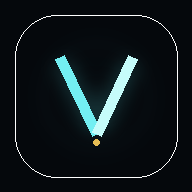
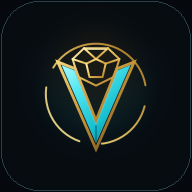
Velnox V1.8.0 brand identity

diff --git a/trust.js b/trust.js
@@ -1,7 +1,7 @@
 (() => {
   'use strict';
 
-  const VERSION = '1.7.1';
+  const VERSION = '1.8.0';
   const LEGAL_VERSION = '1.0.0';
   const EFFECTIVE_DATE = '2026-08-24';
   const STUDIO = 'Benedict Interactive';
@@ -31,7 +31,7 @@
       legalEye:'LEGAL & PRIVACY', legalTitle:'Legal Center', legalIntro:'Clear product rules for ownership, use, privacy, measurement data and third-party services.', copyright:'Copyright & Intellectual Property', copyrightSub:'Ownership, permitted personal use and reserved rights', terms:'Terms of Use', termsSub:'Rules and limitations for using Velnox', privacyPolicy:'Privacy Policy', privacySub:'Local history, test traffic, benchmark data and external services', third:'Third-Party Notices', thirdSub:'Cloudflare, GitHub Pages and other third-party rights', effective:'Effective', version:'Legal version',
       cpTitle:'Copyright & Intellectual Property', cp1:'Velnox, its original source code, interface design, original graphics, written explanations, product identity and documentation are protected works of Benedict Interactive except where third-party rights or licences apply.', cp2:'Public availability of the website or repository does not by itself grant permission to copy, redistribute, resell, mirror, commercially exploit or create a substantially copied competing product. Ordinary personal, non-commercial screenshots of your own Velnox results are permitted.', cp3:'No exclusive rights are claimed in general networking concepts, facts, standards, public-domain material or third-party software and services.',
       termsTitle:'Terms of Use', terms1:'Velnox provides browser-based network measurements, interpretations and benchmark estimates for informational use. Results are not guarantees of ISP service, application performance, contractual speed or future network behaviour.', terms2:'You may use the released application for ordinary personal or organisational network checking. Do not deliberately misrepresent measurements, impersonate Benedict Interactive, interfere with the service, bypass security controls, or unlawfully exploit protected code or assets.', terms3:'The service may change, be unavailable, or depend on third-party infrastructure. Nothing here removes rights that applicable law does not allow to be waived or limited.',
-      ppTitle:'Privacy Policy', pp1:'Velnox does not require an account. When Save History is enabled, saved test history is stored in browser LocalStorage on the current device/browser profile. Clearing history removes that local Velnox history.', pp2:'A speed test necessarily sends test traffic to Cloudflare speed-test endpoints. Velnox may use Cloudflare-provided network metadata or browser locale to estimate the network-exit country for benchmark selection. Velnox does not put a raw IP address into local test history.', pp3:'Country and Worldwide benchmark files are aggregated Cloudflare Radar datasets generated by the Velnox benchmark workflow. They are not personal histories. Ko-fi, PromptPay support assets, GitHub Pages and email applications are third-party services with their own practices.', pp4:'Velnox V1.7 contains no advertising system, cross-site behavioural advertising tracker, or system for selling user data.',
+      ppTitle:'Privacy Policy', pp1:'Velnox does not require an account. When Save History is enabled, saved test history is stored in browser LocalStorage on the current device/browser profile. Clearing history removes that local Velnox history.', pp2:'A speed test necessarily sends test traffic to Cloudflare speed-test endpoints. Velnox may use Cloudflare-provided network metadata or browser locale to estimate the network-exit country for benchmark selection. Velnox does not put a raw IP address into local test history.', pp3:'Country and Worldwide benchmark files are aggregated Cloudflare Radar datasets generated by the Velnox benchmark workflow. They are not personal histories. Ko-fi, PromptPay support assets, GitHub Pages and email applications are third-party services with their own practices.', pp4:'Velnox V1.8 contains no advertising system, cross-site behavioural advertising tracker, or system for selling user data.',
       tpTitle:'Third-Party Notices', tp1:'Cloudflare: Velnox uses Cloudflare speed-test infrastructure for primary browser measurements and Cloudflare Radar histogram data for the Velnox Standard Base. Cloudflare services, trademarks, data and software remain subject to Cloudflare’s applicable terms and licences.', tp2:'GitHub Pages: the public Velnox website is hosted through GitHub Pages. GitHub controls the hosting platform and its platform-level logs, security and availability.', tp3:'Ko-fi and PromptPay: voluntary support routes are external to the Velnox measurement engine. Payment details and account handling occur outside Velnox. Third-party names and marks belong to their respective owners.',
       aboutEye:'ABOUT', aboutTitle:'Velnox — Network Intelligence', aboutLead:'A privacy-conscious network-health assistant by Benedict Interactive.', versionLabel:'Version', studio:'Studio', primary:'Primary measurement', benchmark:'Benchmark source', hosting:'Hosting', privacyModel:'Privacy model', sourceStatus:'Source status', primaryV:'@cloudflare/speedtest 1.13.0 · accuracy-first profile', benchmarkV:'Cloudflare Radar · rolling 90-day histograms', hostingV:'GitHub Pages', privacyV:'No account · optional local history · no raw IP stored in history', sourceV:'Free to use · proprietary source unless separately licensed', aboutNote:'Measure → Interpret → Compare → Diagnose → Recommend → Retest, with uncertainty and source limitations shown instead of hidden.'
     },
@@ -54,7 +54,7 @@
       legalEye:'กฎหมายและความเป็นส่วนตัว', legalTitle:'ศูนย์ข้อมูลทางกฎหมาย', legalIntro:'ขอบเขตสิทธิ์ การใช้งาน ความเป็นส่วนตัว ข้อมูลการวัด และบริการของบุคคลที่สาม อธิบายตามการทำงานจริงของ Velnox', copyright:'ลิขสิทธิ์และทรัพย์สินทางปัญญา', copyrightSub:'กรรมสิทธิ์ การใช้ส่วนตัวที่อนุญาต และสิทธิ์ที่สงวนไว้', terms:'ข้อกำหนดการใช้งาน', termsSub:'กติกาและข้อจำกัดในการใช้ Velnox', privacyPolicy:'นโยบายความเป็นส่วนตัว', privacySub:'ประวัติในเครื่อง Test traffic, Benchmark และบริการภายนอก', third:'ข้อมูลบุคคลที่สาม', thirdSub:'Cloudflare, GitHub Pages และสิทธิ์ของผู้ให้บริการอื่น', effective:'มีผลตั้งแต่', version:'เวอร์ชันเอกสาร',
       cpTitle:'ลิขสิทธิ์และทรัพย์สินทางปัญญา', cp1:'Velnox รวมถึง source code ต้นฉบับ การออกแบบหน้าจอ กราฟิกต้นฉบับ คำอธิบาย เอกลักษณ์ผลิตภัณฑ์ และเอกสาร เป็นงานที่ได้รับความคุ้มครองของ Benedict Interactive เว้นแต่ส่วนที่มีสิทธิ์หรือใบอนุญาตของบุคคลที่สาม', cp2:'การที่เว็บไซต์หรือ repository เปิดให้มองเห็น ไม่ได้หมายถึงได้รับอนุญาตให้นำไปคัดลอก แจกจ่าย ขาย ทำ mirror ใช้เชิงพาณิชย์ หรือสร้างผลิตภัณฑ์คู่แข่งที่คัดลอกอย่างมีนัยสำคัญ อนุญาตให้เก็บหรือแชร์ screenshot ผล Velnox ของตนเองเพื่อการส่วนตัวที่ไม่ใช่เชิงพาณิชย์', cp3:'Velnox ไม่อ้างสิทธิ์แต่เพียงผู้เดียวเหนือแนวคิดเครือข่ายทั่วไป ข้อเท็จจริง มาตรฐาน งานสาธารณสมบัติ ซอฟต์แวร์ หรือบริการของบุคคลที่สาม',
       termsTitle:'ข้อกำหนดการใช้งาน', terms1:'Velnox ให้บริการการวัดเครือข่ายผ่านเบราว์เซอร์ การแปลผล และ Benchmark เพื่อให้ข้อมูล ผลลัพธ์ไม่ใช่การรับประกันบริการ ISP ประสิทธิภาพของทุกแอป ความเร็วตามสัญญา หรือพฤติกรรมเครือข่ายในอนาคต', terms2:'สามารถใช้แอปที่เผยแพร่เพื่อการตรวจสอบเครือข่ายทั่วไปได้ ห้ามบิดเบือนผล แอบอ้างเป็น Benedict Interactive รบกวนระบบ ข้ามมาตรการความปลอดภัย หรือใช้โค้ด/ทรัพย์สินที่ได้รับการคุ้มครองโดยมิชอบ', terms3:'บริการอาจเปลี่ยนแปลง หยุดให้บริการชั่วคราว หรือขึ้นกับโครงสร้างพื้นฐานของบุคคลที่สาม และไม่ตัดสิทธิ์ที่กฎหมายไม่อนุญาตให้สละหรือจำกัด',
-      ppTitle:'นโยบายความเป็นส่วนตัว', pp1:'Velnox ไม่ต้องสมัครบัญชี เมื่อเปิด Save History ผลทดสอบที่บันทึกจะอยู่ใน browser LocalStorage ของอุปกรณ์/browser profile ปัจจุบัน การล้างประวัติจะลบประวัติ Velnox ที่เก็บในเครื่องนั้น', pp2:'Speed Test จำเป็นต้องส่ง test traffic ไปยัง endpoint ของ Cloudflare Velnox อาจใช้ network metadata ที่ Cloudflare ให้หรือ browser locale เพื่อประมาณประเทศของ network exit สำหรับเลือก Benchmark และไม่บันทึก raw IP ลงในประวัติภายในเครื่อง', pp3:'ไฟล์ Benchmark ประเทศและทั่วโลกเป็นข้อมูลรวมจาก Cloudflare Radar ที่สร้างผ่าน workflow ของ Velnox ไม่ใช่ประวัติส่วนบุคคล Ko-fi, PromptPay, GitHub Pages และแอปอีเมลเป็นบริการภายนอกที่มีแนวทางของตนเอง', pp4:'Velnox V1.7 ไม่มีระบบโฆษณา ระบบ cross-site behavioural advertising tracking หรือระบบขายข้อมูลผู้ใช้',
+      ppTitle:'นโยบายความเป็นส่วนตัว', pp1:'Velnox ไม่ต้องสมัครบัญชี เมื่อเปิด Save History ผลทดสอบที่บันทึกจะอยู่ใน browser LocalStorage ของอุปกรณ์/browser profile ปัจจุบัน การล้างประวัติจะลบประวัติ Velnox ที่เก็บในเครื่องนั้น', pp2:'Speed Test จำเป็นต้องส่ง test traffic ไปยัง endpoint ของ Cloudflare Velnox อาจใช้ network metadata ที่ Cloudflare ให้หรือ browser locale เพื่อประมาณประเทศของ network exit สำหรับเลือก Benchmark และไม่บันทึก raw IP ลงในประวัติภายในเครื่อง', pp3:'ไฟล์ Benchmark ประเทศและทั่วโลกเป็นข้อมูลรวมจาก Cloudflare Radar ที่สร้างผ่าน workflow ของ Velnox ไม่ใช่ประวัติส่วนบุคคล Ko-fi, PromptPay, GitHub Pages และแอปอีเมลเป็นบริการภายนอกที่มีแนวทางของตนเอง', pp4:'Velnox V1.8 ไม่มีระบบโฆษณา ระบบ cross-site behavioural advertising tracking หรือระบบขายข้อมูลผู้ใช้',
       tpTitle:'ข้อมูลบุคคลที่สาม', tp1:'Cloudflare: Velnox ใช้โครงสร้าง Speed Test ของ Cloudflare สำหรับการวัดหลัก และใช้ข้อมูล histogram จาก Cloudflare Radar สำหรับ Velnox Standard Base บริการ เครื่องหมาย ข้อมูล และซอฟต์แวร์ของ Cloudflare อยู่ภายใต้สิทธิ์และเงื่อนไขของ Cloudflare', tp2:'GitHub Pages: เว็บไซต์สาธารณะของ Velnox โฮสต์ผ่าน GitHub Pages โดย GitHub ควบคุมแพลตฟอร์ม hosting, platform logs, security และ availability', tp3:'Ko-fi และ PromptPay: เป็นช่องทางสนับสนุนโดยสมัครใจ แยกจาก measurement engine การชำระเงินและข้อมูลบัญชีดำเนินการภายนอก Velnox ชื่อและเครื่องหมายของบุคคลที่สามเป็นของเจ้าของแต่ละราย',
       aboutEye:'เกี่ยวกับแอป', aboutTitle:'Velnox — Network Intelligence', aboutLead:'ผู้ช่วยวิเคราะห์สุขภาพเครือข่ายที่ให้ความสำคัญกับความเป็นส่วนตัว โดย Benedict Interactive', versionLabel:'เวอร์ชัน', studio:'สตูดิโอ', primary:'การวัดหลัก', benchmark:'แหล่ง Benchmark', hosting:'Hosting', privacyModel:'รูปแบบความเป็นส่วนตัว', sourceStatus:'สถานะ Source', primaryV:'@cloudflare/speedtest 1.13.0 · accuracy-first profile', benchmarkV:'Cloudflare Radar · histogram ย้อนหลัง 90 วัน', hostingV:'GitHub Pages', privacyV:'ไม่ต้องสมัครบัญชี · ประวัติในเครื่องเป็นทางเลือก · ไม่เก็บ raw IP ในประวัติ', sourceV:'ใช้งานฟรี · source เป็น proprietary เว้นแต่ระบุ license แยก', aboutNote:'Measure → Interpret → Compare → Diagnose → Recommend → Retest พร้อมแสดงความไม่แน่นอนและข้อจำกัดของแหล่งข้อมูลอย่างตรงไปตรงมา'
     }
@@ -100,7 +100,7 @@
     document.getElementById('trustAboutBtn')?.addEventListener('click',()=>open('about'));
   }
 
-  function ensureRoot(){if(S.root)return S.root;const r=document.createElement('section');r.id='trustScreen';r.className='trust-screen';r.hidden=true;r.setAttribute('role','dialog');r.setAttribute('aria-modal','true');r.innerHTML='<header class="trust-topbar"><button id="trustBack" type="button" aria-label="Back">‹</button><div><strong>VELNOX</strong><small>NETWORK INTELLIGENCE</small></div><button id="trustHome" type="button" aria-label="Home">⌂</button></header><main id="trustContent" class="trust-scroll"></main>';document.getElementById('app')?.appendChild(r);r.querySelector('#trustBack').addEventListener('click',close);r.querySelector('#trustHome').addEventListener('click',()=>close({home:true}));r.addEventListener('click',rootClick);r.addEventListener('error',e=>{if(e.target.matches?.('.trust-qr-wrap img')){e.target.hidden=true;e.target.closest('.trust-qr-wrap')?.classList.add('qr-unavailable')}},true);S.root=r;return r}
+  function ensureRoot(){if(S.root)return S.root;const r=document.createElement('section');r.id='trustScreen';r.className='trust-screen';r.hidden=true;r.setAttribute('role','dialog');r.setAttribute('aria-modal','true');r.innerHTML='<header class="trust-topbar"><button id="trustBack" type="button" aria-label="Back">‹</button><div class="trust-brand-lockup"><img class="velnox-brand-mark velnox-brand-mark--trust" src="assets/velnox-mark.svg" alt="" aria-hidden="true"><div><strong>VELNOX</strong><small>NETWORK INTELLIGENCE</small></div></div><button id="trustHome" type="button" aria-label="Home">⌂</button></header><main id="trustContent" class="trust-scroll"></main>';document.getElementById('app')?.appendChild(r);r.querySelector('#trustBack').addEventListener('click',close);r.querySelector('#trustHome').addEventListener('click',()=>close({home:true}));r.addEventListener('click',rootClick);r.addEventListener('error',e=>{if(e.target.matches?.('.trust-qr-wrap img')){e.target.hidden=true;e.target.closest('.trust-qr-wrap')?.classList.add('qr-unavailable')}},true);S.root=r;return r}
   function show(){const r=ensureRoot();S.focus=document.activeElement;document.getElementById('settingsSheet')?.classList.remove('show');document.getElementById('sheetBackdrop')?.classList.remove('show');document.body.classList.add('trust-screen-open');r.hidden=false;requestAnimationFrame(()=>r.classList.add('is-visible'))}
   function close({home=false}={}){if(!S.root||S.root.hidden)return;const r=S.root;r.classList.remove('is-visible');const done=()=>{r.hidden=true;document.body.classList.remove('trust-screen-open');if(home)document.getElementById('homeBtn')?.click();else if(S.focus instanceof HTMLElement&&document.contains(S.focus))S.focus.focus({preventScroll:true});S.focus=null};if(document.documentElement.dataset.velnoxMotion==='reduced'||matchMedia('(prefers-reduced-motion: reduce)').matches)done();else setTimeout(done,180)}
   const block=(id,title,ps)=>`<section class="trust-doc-section" id="trust-${esc(id)}"><h2>${esc(title)}</h2>${ps.map(p=>`<p>${esc(p)}</p>`).join('')}</section>`;
@@ -113,7 +113,7 @@
   function reportBody(type,msg,include){const title=type==='report'?'Velnox — Problem Report':'Velnox — Feedback';const p=[title,'','Message:',msg.trim()];if(include)p.push('','Technical details:',diagnostics());p.push('','---',`Prepared locally. Send voluntarily to ${SUPPORT_EMAIL}.`);return p.join('\n')}
   function legalHome(){return `<section class="trust-hero"><span>${esc(t('legalEye'))}</span><h1>${esc(t('legalTitle'))}</h1><p>${esc(t('legalIntro'))}</p><div class="trust-meta"><span>${esc(t('version'))} ${LEGAL_VERSION}</span><span>${esc(t('effective'))} ${EFFECTIVE_DATE}</span></div></section><div class="trust-legal-cards"><button data-legal-doc="copyright"><i>©</i><span><b>${esc(t('copyright'))}</b><small>${esc(t('copyrightSub'))}</small></span><em>›</em></button><button data-legal-doc="terms"><i>§</i><span><b>${esc(t('terms'))}</b><small>${esc(t('termsSub'))}</small></span><em>›</em></button><button data-legal-doc="privacy"><i>◇</i><span><b>${esc(t('privacyPolicy'))}</b><small>${esc(t('privacySub'))}</small></span><em>›</em></button><button data-legal-doc="third"><i>◈</i><span><b>${esc(t('third'))}</b><small>${esc(t('thirdSub'))}</small></span><em>›</em></button></div><p class="trust-center-note">${esc(t('legalFoot'))}</p>`}
   function legalDoc(id){const map={copyright:[t('cpTitle'),[t('cp1'),t('cp2'),t('cp3')]],terms:[t('termsTitle'),[t('terms1'),t('terms2'),t('terms3')]],privacy:[t('ppTitle'),[t('pp1'),t('pp2'),t('pp3'),t('pp4')]],third:[t('tpTitle'),[t('tp1'),t('tp2'),t('tp3')]]};const [title,ps]=map[id]||map.copyright;return `<section class="trust-hero"><span>${esc(t('legalEye'))}</span><h1>${esc(title)}</h1><div class="trust-meta"><span>${esc(t('version'))} ${LEGAL_VERSION}</span><span>${esc(t('effective'))} ${EFFECTIVE_DATE}</span></div></section><article class="trust-document">${ps.map(p=>`<p>${esc(p)}</p>`).join('')}</article><button class="trust-doc-back" type="button" data-legal-home>${esc(t('back'))}</button>`}
-  function about(){const rows=[[t('versionLabel'),`V${VERSION}`],[t('studio'),STUDIO],[t('primary'),t('primaryV')],[t('benchmark'),t('benchmarkV')],[t('hosting'),t('hostingV')],[t('privacyModel'),t('privacyV')],[t('sourceStatus'),t('sourceV')]];return `<section class="trust-hero"><span>${esc(t('aboutEye'))}</span><h1>${esc(t('aboutTitle'))}</h1><p>${esc(t('aboutLead'))}</p></section><div class="trust-about-grid">${rows.map(([a,b])=>`<article><small>${esc(a)}</small><strong>${esc(b)}</strong></article>`).join('')}</div><p class="trust-center-note">${esc(t('aboutNote'))}</p><p class="trust-copyright">© 2026 Benedict Interactive · ${L()==='th'?'สงวนสิทธิ์ตามกฎหมาย':'All rights reserved.'}</p>`}
+  function about(){const rows=[[t('versionLabel'),`V${VERSION}`],[t('studio'),STUDIO],[t('primary'),t('primaryV')],[t('benchmark'),t('benchmarkV')],[t('hosting'),t('hostingV')],[t('privacyModel'),t('privacyV')],[t('sourceStatus'),t('sourceV')]];return `<section class="trust-hero trust-about-hero"><img class="velnox-brand-mark velnox-brand-mark--trust-about" src="assets/velnox-mark.svg" alt="" aria-hidden="true"><span>${esc(t('aboutEye'))}</span><h1>${esc(t('aboutTitle'))}</h1><p>${esc(t('aboutLead'))}</p></section><div class="trust-about-grid">${rows.map(([a,b])=>`<article><small>${esc(a)}</small><strong>${esc(b)}</strong></article>`).join('')}</div><p class="trust-center-note">${esc(t('aboutNote'))}</p><p class="trust-copyright">© 2026 Benedict Interactive · ${L()==='th'?'สงวนสิทธิ์ตามกฎหมาย':'All rights reserved.'}</p>`}
   function render(view,a=''){S.view=view;const c=ensureRoot().querySelector('#trustContent');c.innerHTML=view==='transparency'?transparency(a):view==='support'?support(a):view==='help'?help(a):view==='legal'?legalHome():view.startsWith('legal:')?legalDoc(view.split(':')[1]):about();c.scrollTop=0;if(a)requestAnimationFrame(()=>c.querySelector(`#trust-${a}`)?.scrollIntoView({block:'start'}))}
   function open(view='about',a=''){show();render(view,a);setTimeout(()=>S.root?.querySelector('#trustBack')?.focus({preventScroll:true}),20)}
   function external(url){document.getElementById('trustExternalConfirm')?.remove();const b=document.createElement('div');b.id='trustExternalConfirm';b.className='trust-modal-backdrop';b.innerHTML=`<div class="trust-modal"><span>↗</span><h2>${esc(t('externalTitle'))}</h2><p>${esc(t('externalBody'))}</p><div><button data-ext-cancel>${esc(t('cancel'))}</button><button class="primary" data-ext-go>${esc(t('cont'))}</button></div></div>`;document.body.appendChild(b);b.querySelector('[data-ext-cancel]').onclick=()=>b.remove();b.querySelector('[data-ext-go]').onclick=()=>{b.remove();const w=window.open(url,'_blank','noopener,noreferrer');if(!w)location.href=url}}

diff --git a/premium.css b/premium.css
@@ -303,3 +303,47 @@ html[data-velnox-motion="reduced"] .benchmark-rank-hero[data-premium="1"] .bench
     opacity:.62!important;
   }
 }
+
+
+/* Velnox V1.8.0 — Brand Identity
+   Geometric V + abstract turtle-shell DNA. Brand presentation only. */
+.velnox-brand-mark{display:block;object-fit:contain;pointer-events:none;user-select:none;-webkit-user-drag:none}
+.velnox-brand-mark--topbar{width:27px;height:27px;flex:0 0 27px;filter:drop-shadow(0 0 9px rgba(77,225,234,.10)) drop-shadow(0 0 8px rgba(216,183,98,.055))}
+.brand-button{gap:9px!important;letter-spacing:.255em!important}
+.brand-button>span:last-child{position:relative;top:.5px}
+
+.velnox-brand-mark--splash{width:118px;height:118px;margin:0 auto 7px;opacity:0;animation:markIn .65s .08s cubic-bezier(.2,.9,.2,1) forwards;filter:drop-shadow(0 10px 28px rgba(0,0,0,.36)) drop-shadow(0 0 20px rgba(55,212,223,.10))}
+.splash-logo{margin-top:0!important;letter-spacing:.31em!important;padding-left:.31em;font-weight:590!important}
+.splash-network-intelligence{margin:7px 0 0;color:#d7b45c;font-size:8px;font-weight:720;letter-spacing:.34em;text-indent:.34em;text-transform:uppercase;opacity:0;animation:studioIn .5s .82s forwards}
+.signal-line{margin-top:12px!important}
+
+.settings-brand-lockup,.about-brand-lockup,.trust-brand-lockup{display:flex;align-items:center;min-width:0}
+.settings-brand-lockup{gap:10px}
+.velnox-brand-mark--settings{width:31px;height:31px;flex:0 0 31px;filter:drop-shadow(0 0 9px rgba(83,218,226,.08))}
+.settings-brand-lockup h3{letter-spacing:.20em!important;font-weight:650!important}
+.about-brand-lockup{gap:8px;margin-bottom:1px}
+.velnox-brand-mark--about{width:29px;height:29px;flex:0 0 29px}
+.about-brand-lockup b{letter-spacing:.22em!important;font-weight:690!important}
+
+.trust-topbar>.trust-brand-lockup{display:flex!important;flex-direction:row!important;align-items:center!important;justify-content:center!important;gap:8px!important;text-align:left!important}
+.velnox-brand-mark--trust{width:27px;height:27px;flex:0 0 27px}
+.trust-brand-lockup>div{display:flex;flex-direction:column;min-width:0;gap:1px}
+.trust-topbar .trust-brand-lockup strong{letter-spacing:.22em!important}
+.trust-topbar .trust-brand-lockup small{letter-spacing:.13em!important}
+.trust-about-hero{text-align:center}
+.velnox-brand-mark--trust-about{width:74px;height:74px;margin:0 auto 12px;filter:drop-shadow(0 10px 24px rgba(0,0,0,.28))}
+.trust-about-hero>span{display:block}
+
+/* The mark is premium through restraint: no perpetual logo spin or pulse. */
+.velnox-brand-mark{transition:filter .22s ease,transform .22s var(--px-ease)}
+@media(hover:hover){.brand-button:hover .velnox-brand-mark--topbar{filter:drop-shadow(0 0 11px rgba(91,227,235,.18)) drop-shadow(0 0 8px rgba(216,183,98,.08))}}
+.brand-button:active .velnox-brand-mark--topbar{transform:scale(.965)}
+
+@media(max-width:370px){
+  .velnox-brand-mark--topbar{width:24px;height:24px;flex-basis:24px}
+  .brand-button{gap:7px!important;font-size:13px!important;letter-spacing:.22em!important}
+  .velnox-brand-mark--splash{width:104px;height:104px}
+}
+@media(max-width:350px){.brand-button>span:last-child{display:none}.brand-button{padding-right:0!important}}
+html[data-velnox-motion="reduced"] .velnox-brand-mark{transition:none!important}
+@media(prefers-reduced-motion:reduce){.velnox-brand-mark{transition:none!important}}

diff --git a/index.html b/index.html
@@ -10,8 +10,9 @@
   <meta name="apple-mobile-web-app-title" content="Velnox">
   <title>Velnox — Network Intelligence</title>
   <link rel="manifest" href="manifest.webmanifest">
-  <link rel="icon" href="assets/icon-192.png">
-  <link rel="apple-touch-icon" href="assets/icon-192.png">
+  <link rel="icon" href="assets/velnox-mark.svg" type="image/svg+xml">
+  <link rel="icon" href="assets/favicon-32.png" sizes="32x32" type="image/png">
+  <link rel="apple-touch-icon" href="assets/apple-touch-icon-180.png" sizes="180x180">
   <link rel="stylesheet" href="styles.css">
   <link rel="stylesheet" href="trust.css">
   <link rel="stylesheet" href="premium.css">
@@ -22,10 +23,9 @@
     <section id="splash" class="splash" aria-label="Velnox">
       <div class="splash-grid"></div>
       <div class="splash-core">
-        <div class="boot-mark" aria-hidden="true">
-          <span class="boot-v left"></span><span class="boot-v right"></span>
-        </div>
+        <img class="velnox-brand-mark velnox-brand-mark--splash" src="assets/velnox-mark.svg" alt="" aria-hidden="true">
         <h1 class="splash-logo">VELNOX</h1>
+        <p class="splash-network-intelligence">NETWORK INTELLIGENCE</p>
         <div class="signal-line"><span></span></div>
         <p class="studio">A BENEDICT INTERACTIVE PRODUCT</p>
       </div>
@@ -35,7 +35,7 @@
     <main id="mainShell" class="main-shell hidden">
       <header class="topbar">
         <button class="brand-button" id="homeBtn" aria-label="Home">
-          <span class="mini-v" aria-hidden="true"></span>
+          <img class="velnox-brand-mark velnox-brand-mark--topbar" src="assets/velnox-mark.svg" alt="" aria-hidden="true">
           <span>VELNOX</span>
         </button>
 
@@ -290,7 +290,7 @@
     <div id="sheetBackdrop" class="sheet-backdrop"></div>
     <aside id="settingsSheet" class="sheet" aria-label="Settings">
       <div class="sheet-handle"></div>
-      <div class="sheet-head"><div><span class="section-kicker" data-i18n="settings">SETTINGS</span><h3>VELNOX</h3></div><button id="closeSettings">×</button></div>
+      <div class="sheet-head"><div class="settings-brand-lockup"><img class="velnox-brand-mark velnox-brand-mark--settings" src="assets/velnox-mark.svg" alt="" aria-hidden="true"><div><span class="section-kicker" data-i18n="settings">SETTINGS</span><h3>VELNOX</h3></div></div><button id="closeSettings">×</button></div>
 
       <div class="setting-row">
         <div><b data-i18n="language">Language</b><small data-i18n="languageHelp">Choose interface language</small></div>
@@ -315,8 +315,8 @@
       <button id="clearHistoryBtn" class="danger-row" data-i18n="clearHistory">Clear test history</button>
 
       <div class="about-box">
-        <b>VELNOX</b>
-        <span>Network Intelligence • v1.7.1</span>
+        <div class="about-brand-lockup"><img class="velnox-brand-mark velnox-brand-mark--about" src="assets/velnox-mark.svg" alt="" aria-hidden="true"><b>VELNOX</b></div>
+        <span>Network Intelligence • v1.8.0</span>
         <span>Developed by Benedict Interactive</span>
         <small>Browser measurements are estimates and can vary with server path, device load and network conditions. Test traffic is sent to Cloudflare speed-test endpoints; Velnox stores history only on this device when enabled.</small>
       </div>

diff --git a/sw.js b/sw.js
@@ -1,4 +1,4 @@
-const APP_CACHE = "velnox-app-v1.7.1";
+const APP_CACHE = "velnox-app-v1.8.0";
 const BENCH_CACHE = "velnox-benchmarks-v1";
 const CORE = [
   "./",
@@ -10,8 +10,13 @@ const CORE = [
   "./trust.js",
   "./premium.js",
   "./manifest.webmanifest",
+  "./assets/velnox-mark.svg",
+  "./assets/favicon-32.png",
+  "./assets/apple-touch-icon-180.png",
   "./assets/icon-192.png",
-  "./assets/icon-512.png"
+  "./assets/icon-512.png",
+  "./assets/icon-maskable-192.png",
+  "./assets/icon-maskable-512.png"
 ];
 self.addEventListener("install", event => { event.waitUntil(caches.open(APP_CACHE).then(cache => cache.addAll(CORE)).then(() => self.skipWaiting())); });
 self.addEventListener("activate", event => { event.waitUntil(caches.keys().then(keys => Promise.all(keys.filter(k => k.startsWith("velnox-") && ![APP_CACHE, BENCH_CACHE].includes(k)).map(k => caches.delete(k)))).then(() => self.clients.claim())); });

diff --git a/premium.js b/premium.js
@@ -1,7 +1,7 @@
 (() => {
   'use strict';
 
-  const VERSION = '1.7.1';
+  const VERSION = '1.8.0';
   const TEXT = {
     en: {
       testing: 'Testing in progress',

diff --git a/README.md b/README.md
@@ -1,9 +1,22 @@
-# Velnox V1.7.1 — Premium Experience
+# Velnox V1.8.0 — Brand Identity
 
-Velnox is a browser-based Network Intelligence product by Benedict Interactive.
+Velnox is a browser-based Network Intelligence product by **Benedict Interactive**.
 
-V1.7.1 is a presentation and interaction hardening release built on the already-deployed V1.6.0 Trust & Product Maturity layer and the V1.5.2 accuracy/measurement core.
+V1.8.0 introduces the production Velnox emblem: a geometric cyan **V** integrated with restrained gold turtle-shell geometry. The V remains the primary technical mark while the shell language connects the identity to the Velnox turtle mascot without turning the product logo into a cartoon.
 
+## V1.8.0 brand system
+
+- New vector master mark at `assets/velnox-mark.svg`.
+- New favicon and Apple touch icon.
+- New PWA install icons at 192 and 512 px.
+- Dedicated maskable 192/512 icons for launchers that apply their own icon shape.
+- New logo treatment on Splash, top navigation, Settings/About and Trust screens.
+- No perpetual logo animation; the mark remains restrained and technical.
+- The V1.7.1 benchmark hero polish remains intact.
+
+## Regression boundary
+
+V1.8.0 does **not** modify `app.js`, `styles.css`, measurement sequencing, Velnox Score, Real-World Use logic, benchmark mathematics, history behaviour or benchmark data/workflow. Brand work is isolated to presentation, identity assets, manifest metadata and app-shell caching.
 
 ## V1.7.1 benchmark hero polish
 

diff --git a/RELEASE_NOTES.md b/RELEASE_NOTES.md
@@ -1,3 +1,13 @@
+# Velnox V1.8.0 — Brand Identity
+
+- Introduces the production Velnox emblem: cyan V + abstract gold turtle-shell geometry.
+- Replaces the generic V treatment on Splash and top navigation with the new vector mark.
+- Adds coordinated brand treatment to Settings/About and Trust screens.
+- Rebuilds favicon, Apple touch icon and installed-PWA launcher icons from the same master geometry.
+- Adds dedicated maskable launcher icons instead of reusing one icon for both `any` and `maskable` purposes.
+- Bumps the app-shell cache to `velnox-app-v1.8.0` and precaches all identity assets.
+- Preserves V1.7.1 benchmark hero polish and does not modify measurement/scoring/benchmark core.
+
 # Velnox V1.7.1 — Benchmark Hero Polish
 
 - Fixes the benchmark-ring typography regression where the inherited `.benchmark-top span` rule could force the `TOP x%` value down to helper-text size on mobile.
